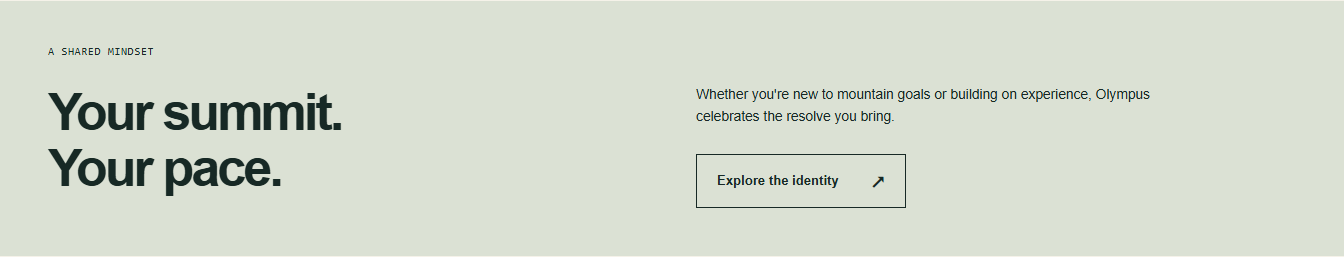
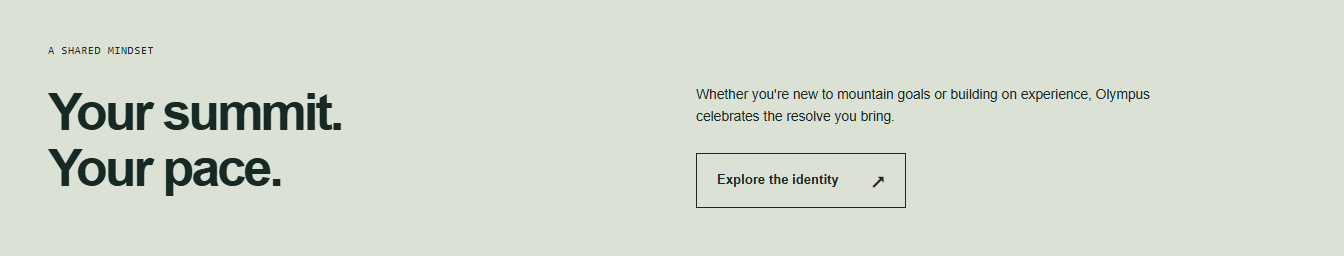
Add free shirt-evaluation checklist to modernist storefront

diff --git a/public/styleguide.html b/public/styleguide.html
@@ -402,7 +402,7 @@
                 Durability is a product goal, not a verified fact. Do not claim
                 this shirt is proven mountain gear, exclusive equipment, or a
                 guarantee of reaching a summit. Prices are fictional demo data.
-                Two ethical persuasion applications remain to be agreed.
+                The two implemented applications are documented below.
               </p>
             </div>
           </div>
@@ -418,19 +418,20 @@
           <span class="section-number">07 / Persuasion plan</span>
           <h2 id="persuasion-title">Useful.<br />Voluntary. Honest.</h2>
           <p>
-            Unity is implemented on the storefront in both styles. The
-            reciprocity checklist remains a proposal pending agreement.
+            Unity and reciprocity are implemented on both storefronts. The
+            checklist gives useful help first; the unity message invites
+            identification with perseverance.
           </p>
         </div>
         <div class="guide-content">
           <div class="voice-grid">
             <div>
-              <h3>Reciprocity / Proposed free help</h3>
+              <h3>Reciprocity / Implemented free help</h3>
               <p class="voice-example">Before buying: evaluate any shirt.</p>
               <p>
-                Proposed free checklist beside the offer: inspect the shirt you
-                already own for wear; check its actual care label; ask for
-                verified fabric, fit and durability information before deciding.
+                Free checklist below the offer: inspect the shirt you already
+                own for wear; check its actual care label; ask for verified
+                fabric, fit and durability information before deciding.
               </p>
               <p>
                 No purchase, email or enrollment required. Helps the mountain

diff --git a/public/index.html b/public/index.html
@@ -132,6 +132,41 @@
         </form>
       </section>
       <section
+        id="shirt-checklist"
+        class="evaluation-section wrap"
+        aria-labelledby="evaluation-title"
+      >
+        <div>
+          <p class="eyebrow">A FREE DECISION TOOL</p>
+          <h2 id="evaluation-title">Before buying:<br />evaluate any shirt.</h2>
+          <p>
+            Use this checklist with a shirt you already own. No signup or
+            purchase needed.
+          </p>
+        </div>
+        <div>
+          <ol>
+            <li>
+              <strong>Look for wear.</strong> Inspect the seams and fabric of
+              your current shirt and note anything that needs attention.
+            </li>
+            <li>
+              <strong>Read its care label.</strong> Check the instructions
+              supplied with that actual shirt rather than guessing.
+            </li>
+            <li>
+              <strong>Ask for evidence.</strong> Before choosing another shirt,
+              ask for verified fabric, fit and durability information relevant
+              to your intended use.
+            </li>
+          </ol>
+          <p class="field-help">
+            Consider whether what you already own meets your needs. Olympus demo
+            fabric, fit and durability information has not been verified.
+          </p>
+        </div>
+      </section>
+      <section
         id="demo-bag"
         class="bag-section wrap"
         aria-labelledby="bag-title"

diff --git a/public/styles.css b/public/styles.css
@@ -1426,3 +1426,37 @@ h1 em,
     gap: 28px;
   }
 }
+
+.evaluation-section {
+  display: grid;
+  grid-template-columns: 1fr 1fr;
+  gap: 3rem;
+  padding-block: 3rem;
+  border-top: 1px solid var(--color-line);
+}
+
+.evaluation-section h2 {
+  margin: 1rem 0;
+}
+
+.evaluation-section ol {
+  margin: 0;
+  padding-left: 1.4rem;
+}
+
+.evaluation-section li {
+  padding-left: 0.5rem;
+  margin-bottom: 1.25rem;
+}
+
+.evaluation-section p {
+  max-width: 460px;
+}
+
+@media (width <= 760px) {
+  .evaluation-section {
+    grid-template-columns: 1fr;
+    gap: 1.5rem;
+    padding-block: 2rem;
+  }
+}

diff --git a/tests/browser/identity.spec.js b/tests/browser/identity.spec.js
@@ -33,6 +33,9 @@ test("Olympus identity stays shared across the storefront, guide and studio", as
         path: `docs/explorations/olympus-${name}-${width}.png`,
       });
       if (name === "storefront") {
+        await page.locator(".evaluation-section").screenshot({
+          path: `docs/explorations/olympus-checklist-${width}.png`,
+        });
         await page
           .locator(".starter-next")
           .screenshot({ path: `docs/explorations/olympus-unity-${width}.png` });

diff --git a/docs/persuasion-plan.md b/docs/persuasion-plan.md
@@ -1,8 +1,8 @@
-# Olympus: ethical persuasion proposals
+# Olympus: ethical persuasion applications
 
-AI-drafted plan for both modernist and postmodernist branches. Unity was selected and a visitor-benefit explanation was supplied after the AI prompt. It is implemented in both storefronts. Reciprocity remains a proposal. No conversion outcome has been measured.
+AI-drafted plan for both modernist and postmodernist branches. Unity was selected and a visitor-benefit explanation was supplied after the AI prompt. It is implemented in both storefronts. The learner approved the free checklist as the second application; it is implemented in both storefronts. No conversion outcome has been measured.
 
-| Application | Proposed page element and copy                                                                                                                                                                                                    | Mechanism and visitor benefit                                                                                                                                                                                                                                            |
+| Application | Implemented page element and copy                                                                                                                                                                                                 | Mechanism and visitor benefit                                                                                                                                                                                                                                            |
 | ----------- | --------------------------------------------------------------------------------------------------------------------------------------------------------------------------------------------------------------------------------- | ------------------------------------------------------------------------------------------------------------------------------------------------------------------------------------------------------------------------------------------------------------------------ |
 | Reciprocity | A free, open checklist beside the offer: **Before buying: evaluate any shirt.** Inspect the shirt you already own for wear; check its actual care label; ask for verified fabric, fit and durability information before deciding. | Gives useful decision support before asking for a purchase. Helps the athlete evaluate repeated-use needs; may reveal that buying is unnecessary. No signup, payment or implied obligation.                                                                              |
 | Unity       | A short identity panel: **Your summit. Your pace.** Whether you're new to mountain goals or building on experience, Olympus celebrates the resolve you bring.                                                                     | Offers identification with the brand's chosen value of perseverance and includes the secondary day hiker. It invites belonging; it does not assert membership, community size, endorsements or founder credentials. Revisit if visitors do not identify with that value. |
@@ -22,4 +22,4 @@ Use identical checklist and invitation copy in both styles. Modernist: aligned r
 
 ## Next decision
 
-Review the implemented unity message and agree or revise the second application. Reciprocity is not active yet. Logo review and learner browser observations remain pending.
+Review the implemented applications in the browser. Logo review, learner test interpretation and browser observations remain pending.

diff --git a/SPEC.md b/SPEC.md
@@ -68,10 +68,10 @@ A simple original SVG wordmark is enough. Show small-size and one-color presenta
 
 Choose two applications that help the visitor make a voluntary, informed decision. Record their real implementation and mechanism rather than a principle name alone. Required size selection or validation alone does not establish consistency. Do not invent social proof, scarcity, authority, or product facts.
 
-| Principle                             | Actual copy or interaction                                                                                                                       | Visitor benefit / factual support                                                                                         |
-| ------------------------------------- | ------------------------------------------------------------------------------------------------------------------------------------------------ | ------------------------------------------------------------------------------------------------------------------------- |
-| Reciprocity (AI proposal, not agreed) | Free shirt-evaluation checklist; see [plan](docs/persuasion-plan.md) and guide section 07. Not active on storefront.                             | Useful questions before shopping; no product claims, signup or purchase obligation.                                       |
-| Unity (selected; implemented)         | Your summit. Your pace. Experience-inclusive perseverance message in public/index.html; same copy in guide. See [plan](docs/persuasion-plan.md). | Welcomes mountain athlete and casual hiker through a proposed shared value; no invented group, membership or endorsement. |
+| Principle                           | Actual copy or interaction                                                                                                                                           | Visitor benefit / factual support                                                                                         |
+| ----------------------------------- | -------------------------------------------------------------------------------------------------------------------------------------------------------------------- | ------------------------------------------------------------------------------------------------------------------------- |
+| Reciprocity (approved; implemented) | Free three-step shirt-evaluation checklist below the offer in public/index.html; same mechanism documented in guide section 07. See [plan](docs/persuasion-plan.md). | Useful questions before shopping; no product claims, signup or purchase obligation.                                       |
+| Unity (selected; implemented)       | Your summit. Your pace. Experience-inclusive perseverance message in public/index.html; same copy in guide. See [plan](docs/persuasion-plan.md).                     | Welcomes mountain athlete and casual hiker through a proposed shared value; no invented group, membership or endorsement. |
 
 ## BRAND-001 — first branded storefront and live style guide
 
